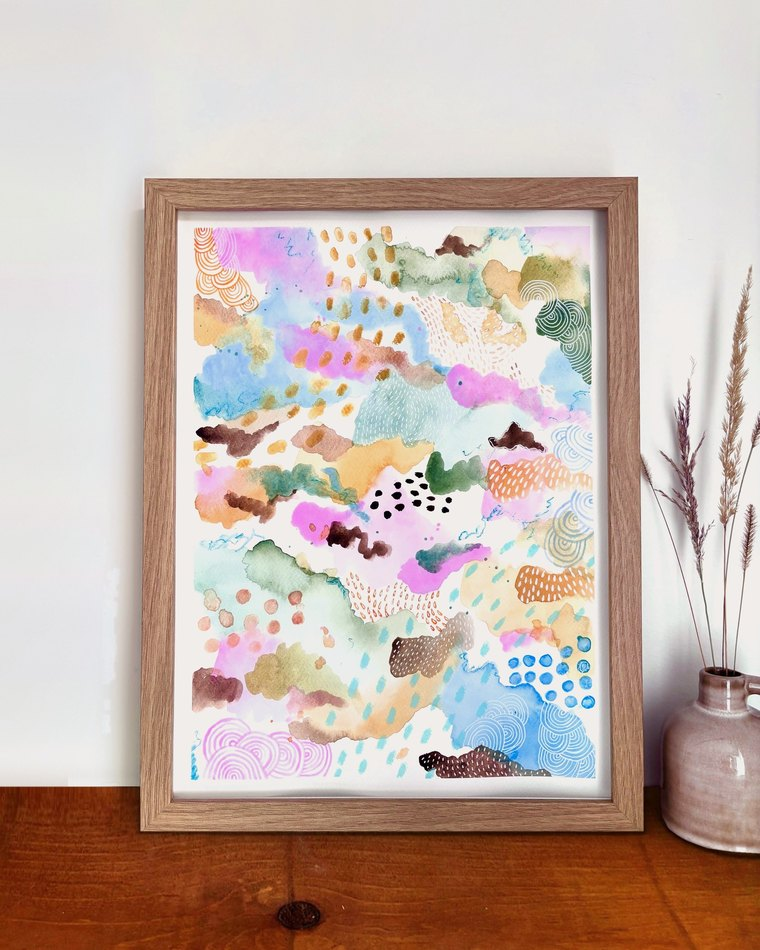
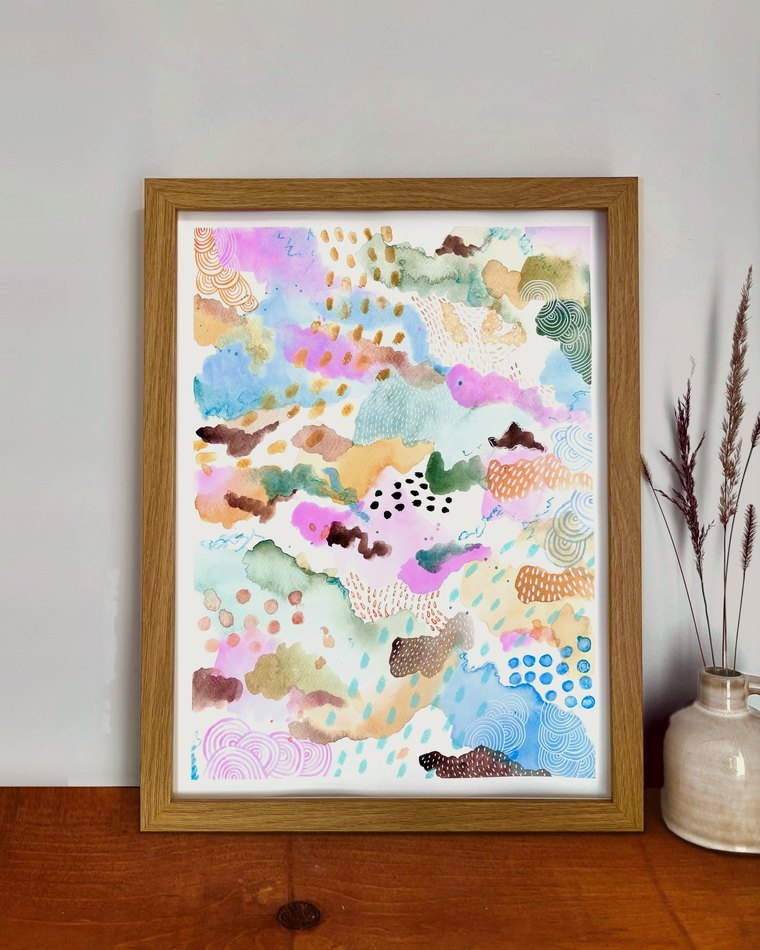
Petal Weather: match wall, frame, vase and tabletop colours to Sky & Ochre
Claude-Session: https://claude.ai/code/session_01XKp1RYW1D7xJUYW1vovEE8

diff --git a/public/app.js b/public/app.js
@@ -689,7 +689,7 @@ function demoArtworks() {
   // Pieces with Alexandra's own new photos (colour-corrected, light oak dresser)
   const updated = ['petal-weather', 'rain-garden', 'lilac-tide', 'meadow-light', 'harbour-sun', 'wildflower-shore', 'earth-blush', 'tide-pool', 'sorbet', 'blue-peak', 'sky-ochre', 'moss-rain', 'pink-s', 'sage-clay', 'blue-gold', 'moss-cobalt', 'purple-hues-circular', 'mountain-landscape', 'warm-hues', 'orange-hues', 'purple-blues', 'forest-walk', 'mystic-purple', 'soft-pinks', 'pink-hues', 'violet-hues', 'autumn-hues-circular', 'teal-hues', 'violet-green', 'blue-hues-circular', 'deep-blues'];
   const largeSet = (slug) => {
-    const v = slug === 'rain-garden' ? 7 : slug === 'petal-weather' ? 2 : 5;
+    const v = slug === 'rain-garden' ? 7 : slug === 'petal-weather' ? 3 : 5;
     return [
       { src: `/art/${slug}-photo1.jpg?v=${v}`, fill: true },
       { src: `/art/${slug}-room.jpg?v=${v}`, mock: true, fill: true },
@@ -841,7 +841,7 @@ function demoArtworks() {
       id: slug, title, collection: 'intuitive-abstracts', currency: 'cad', sold: Boolean(extra.sold), url: extra.sold ? null : (BUY[slug] || null), year: '',
       thumb: `/art/${slug}-sm.jpg${slug === 'rain-garden' ? '?v=2' : slug === 'petal-weather' ? '?v=3' : ''}`, art: `/art/${slug}.jpg${slug === 'rain-garden' ? '?v=2' : slug === 'petal-weather' ? '?v=3' : ''}`, image: customGallery[slug] ? customGallery[slug][0].src : `/art/${slug}-styled.jpg`,
       gallery: listingGallery(slug),
-      price: d.price, matted, large: Boolean(extra.large), cardPhoto: extra.large ? `/art/${slug}-card.jpg?v=${slug === 'rain-garden' ? 7 : slug === 'petal-weather' ? 2 : 5}` : extra.square ? `/art/${slug}-card.jpg?v=2` : null, square: Boolean(extra.square), commission: Boolean(extra.commission),
+      price: d.price, matted, large: Boolean(extra.large), cardPhoto: extra.large ? `/art/${slug}-card.jpg?v=${slug === 'rain-garden' ? 7 : slug === 'petal-weather' ? 3 : 5}` : extra.square ? `/art/${slug}-card.jpg?v=2` : null, square: Boolean(extra.square), commission: Boolean(extra.commission),
       // Short line under each card in the grid
       cardSub: extra.square
         ? { en: 'Watercolour · commission · 12 × 12 in', fr: 'Aquarelle · commande · 12 × 12 po' }

diff --git a/public/about.html b/public/about.html
@@ -30,6 +30,6 @@
     <span data-i18n="secure"></span>
   </footer>
 
-  <script src="app.js?v=1795536184"></script>
+  <script src="app.js?v=1795540836"></script>
 </body>
 </html>

diff --git a/public/piece.html b/public/piece.html
@@ -30,6 +30,6 @@
     <span data-i18n="secure"></span>
   </footer>
 
-  <script src="app.js?v=1795536184"></script>
+  <script src="app.js?v=1795540836"></script>
 </body>
 </html>

diff --git a/public/index.html b/public/index.html
@@ -67,6 +67,6 @@
   </footer>
 
 
-  <script src="app.js?v=1795536184"></script>
+  <script src="app.js?v=1795540836"></script>
 </body>
 </html>
